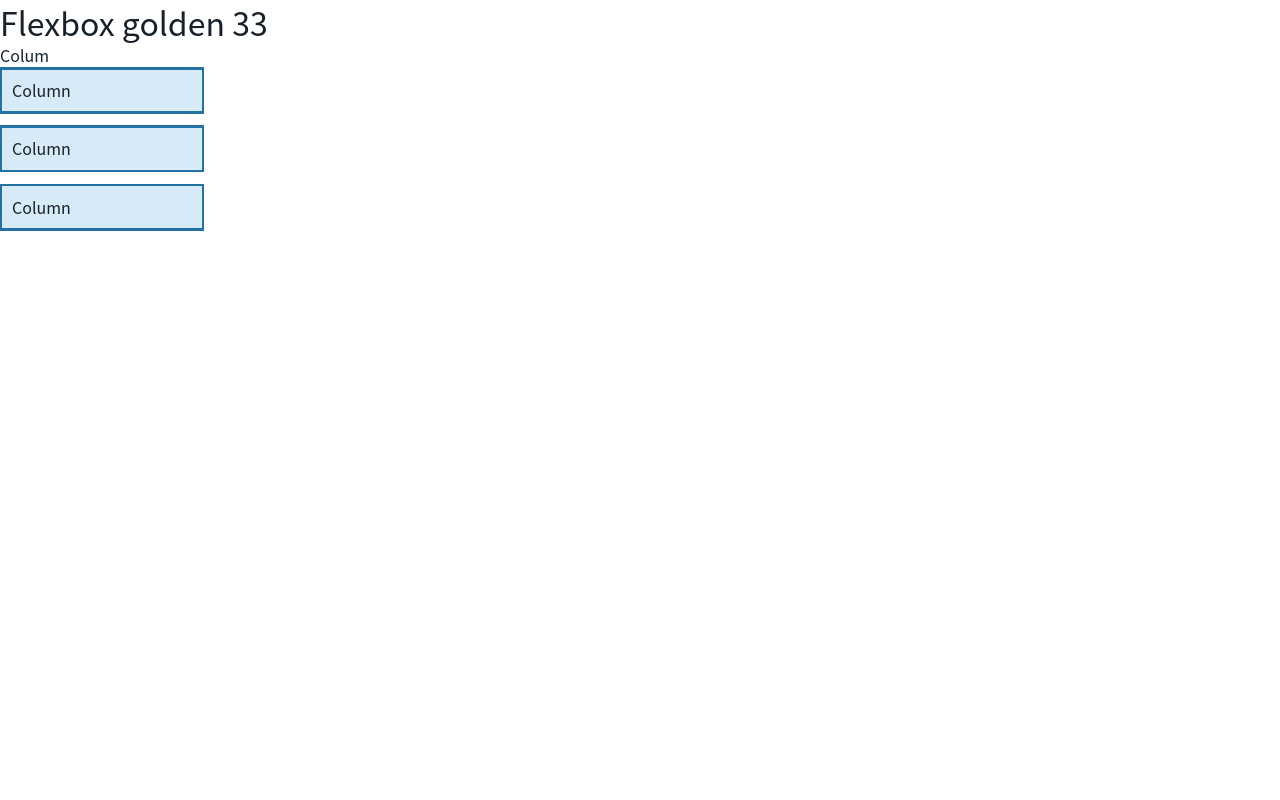
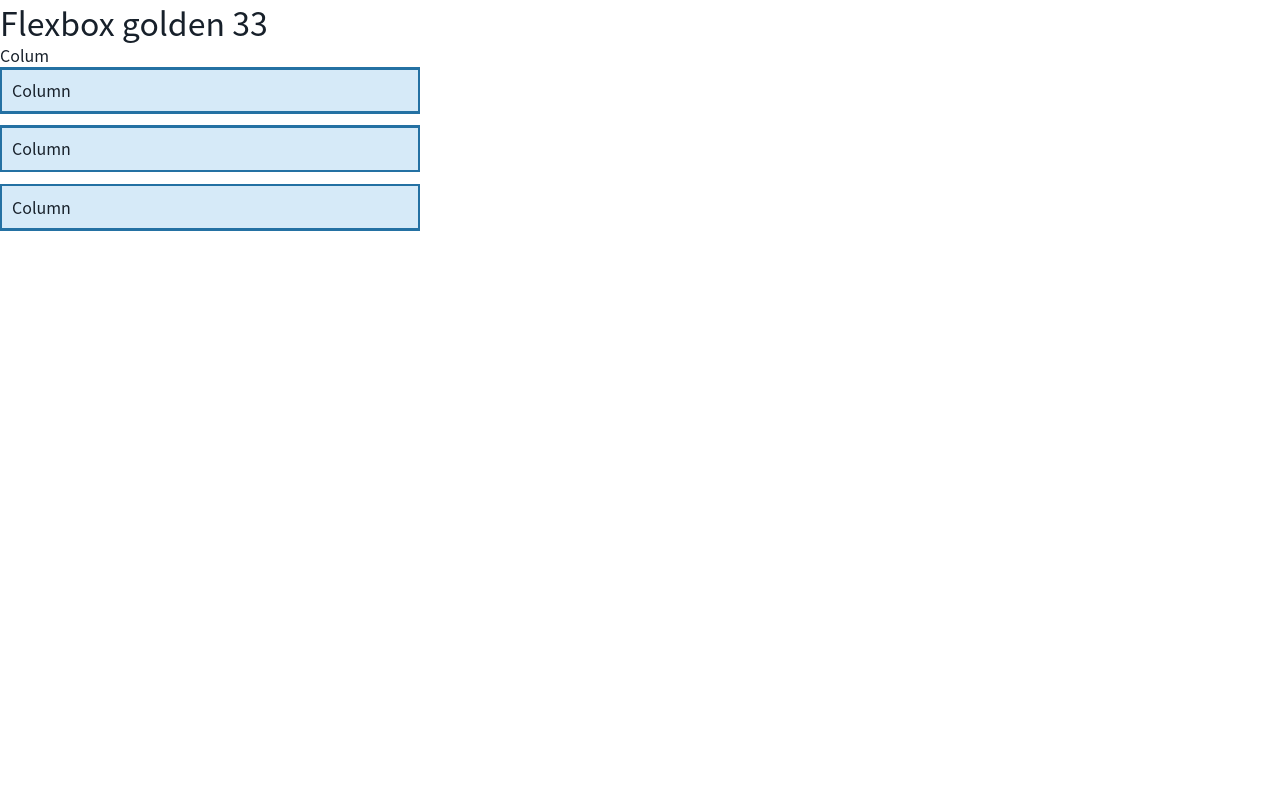
test(v6): add responsive CSS fixture corpus

Changed region(s): [[0.1562, 0.0625, 0.3438, 0.3125]]

diff --git a/fixtures/pages/62-z-index/index.html b/fixtures/pages/62-z-index/index.html
@@ -1,0 +1,10 @@
+<!doctype html>
+<title>V6 stable z index</title>
+<style>
+  main { position: relative; width: 500px; height: 220px }
+  div { position: absolute; width: 240px; height: 100px; padding: 12px }
+  .back { left: 20px; top: 20px; z-index: -1; background-color: #c53030 }
+  .middle { left: 80px; top: 60px; z-index: 1; background-color: #2468ac; color: white }
+  .front { left: 140px; top: 100px; z-index: 2; background-color: green; color: white }
+</style>
+<main><div class="front">Front layer</div><div class="back">Back layer</div><div class="middle">Middle layer</div></main>

diff --git a/fixtures/pages/61-position-absolute-end/index.html b/fixtures/pages/61-position-absolute-end/index.html
@@ -1,0 +1,7 @@
+<!doctype html>
+<title>V6 absolute end offsets</title>
+<style>
+  main { position: relative; width: 600px; height: 240px; padding: 20px; background-color: #eef4ff }
+  .status { position: absolute; right: 10%; bottom: 15%; width: 160px; height: 40px; border: 3px solid green }
+</style>
+<main>Responsive containing block<div class="status">Right bottom status</div></main>

diff --git a/fixtures/pages/60-position-absolute-start/index.html b/fixtures/pages/60-position-absolute-start/index.html
@@ -1,0 +1,7 @@
+<!doctype html>
+<title>V6 absolute start offsets</title>
+<style>
+  main { position: relative; width: 520px; height: 220px; padding: 20px; border: 2px solid #2468ac }
+  .badge { position: absolute; left: 28px; top: 32px; width: 180px; height: 44px; background-color: #c53030; color: white }
+</style>
+<main>Positioned panel<div class="badge">Absolute badge</div></main>

diff --git a/fixtures/pages/59-position-relative/index.html b/fixtures/pages/59-position-relative/index.html
@@ -1,0 +1,8 @@
+<!doctype html>
+<title>V6 relative positioning</title>
+<style>
+  main { width: 500px; padding: 16px }
+  div { height: 44px; border: 2px solid #2468ac }
+  .shifted { position: relative; left: 36px; top: 10px; background-color: #eef4ff }
+</style>
+<main><div>Normal row</div><div class="shifted">Shifted visual row</div><div>Following flow row</div></main>

diff --git a/fixtures/pages/56-flex-order/index.html b/fixtures/pages/56-flex-order/index.html
@@ -1,0 +1,9 @@
+<!doctype html>
+<title>V6 flex order</title>
+<style>
+  main { display: flex; width: 520px; gap: 12px }
+  div { width: 120px; padding: 12px; background-color: #eef4ff }
+  .first { order: -1 }
+  .last { order: 2 }
+</style>
+<main><div class="last">Visual third</div><div>Visual second</div><div class="first">Visual first</div></main>

diff --git a/fixtures/pages/58-flex-column-order/index.html b/fixtures/pages/58-flex-column-order/index.html
@@ -1,0 +1,8 @@
+<!doctype html>
+<title>V6 column order</title>
+<style>
+  main { display: flex; flex-direction: column; height: 280px; gap: 10px; width: 300px }
+  div { flex-basis: 48px; background-color: #eef4ff; padding: 8px }
+  .first { order: -2 }
+</style>
+<main><div>Second row</div><div class="first">First row</div><div>Third row</div></main>

diff --git a/fixtures/pages/57-flex-basis/index.html b/fixtures/pages/57-flex-basis/index.html
@@ -1,0 +1,9 @@
+<!doctype html>
+<title>V6 flex basis</title>
+<style>
+  main { display: flex; width: 600px; gap: 16px }
+  div { flex-shrink: 0; padding: 10px; border: 2px solid #2468ac }
+  .fixed { flex-basis: 180px }
+  .quarter { flex-basis: 25% }
+</style>
+<main><div class="fixed">Fixed basis</div><div class="quarter">Quarter basis</div></main>

diff --git a/fixtures/pages/55-media-width-range/index.html b/fixtures/pages/55-media-width-range/index.html
@@ -1,0 +1,9 @@
+<!doctype html>
+<title>V6 media width range</title>
+<style>
+  article { color: red }
+  @media (min-width: 60em) and (max-width: 1400px) {
+    article { color: #2468ac; background-color: #eef4ff; padding: 24px }
+  }
+</style>
+<article>Bounded responsive range</article>

diff --git a/fixtures/pages/54-media-max-width/index.html b/fixtures/pages/54-media-max-width/index.html
@@ -1,0 +1,7 @@
+<!doctype html>
+<title>V6 maximum width media</title>
+<style>
+  main { color: green; border: 3px solid green; padding: 20px }
+  @media (max-width: 640px) { main { color: red; border-color: red } }
+</style>
+<main>Desktop rule remains selected</main>

diff --git a/fixtures/pages/51-custom-property-inheritance/index.html b/fixtures/pages/51-custom-property-inheritance/index.html
@@ -1,0 +1,7 @@
+<!doctype html>
+<title>V6 custom property inheritance</title>
+<style>
+  :root { --brand: #2468ac; --space: 18px }
+  main { color: var(--brand); padding: var(--space); border: 2px solid var(--brand) }
+</style>
+<main>Inherited design tokens</main>

diff --git a/fixtures/pages/53-media-min-width/index.html b/fixtures/pages/53-media-min-width/index.html
@@ -1,0 +1,7 @@
+<!doctype html>
+<title>V6 minimum width media</title>
+<style>
+  main { color: red; padding: 12px }
+  @media screen and (min-width: 768px) { main { color: blue; padding: 28px } }
+</style>
+<main>Wide viewport branch</main>

diff --git a/fixtures/pages/52-custom-property-fallback/index.html b/fixtures/pages/52-custom-property-fallback/index.html
@@ -1,0 +1,6 @@
+<!doctype html>
+<title>V6 custom property fallback</title>
+<style>
+  section { color: var(--missing, #c53030); margin-left: var(--gap, 32px) }
+</style>
+<section>Variable fallback remains readable</section>
